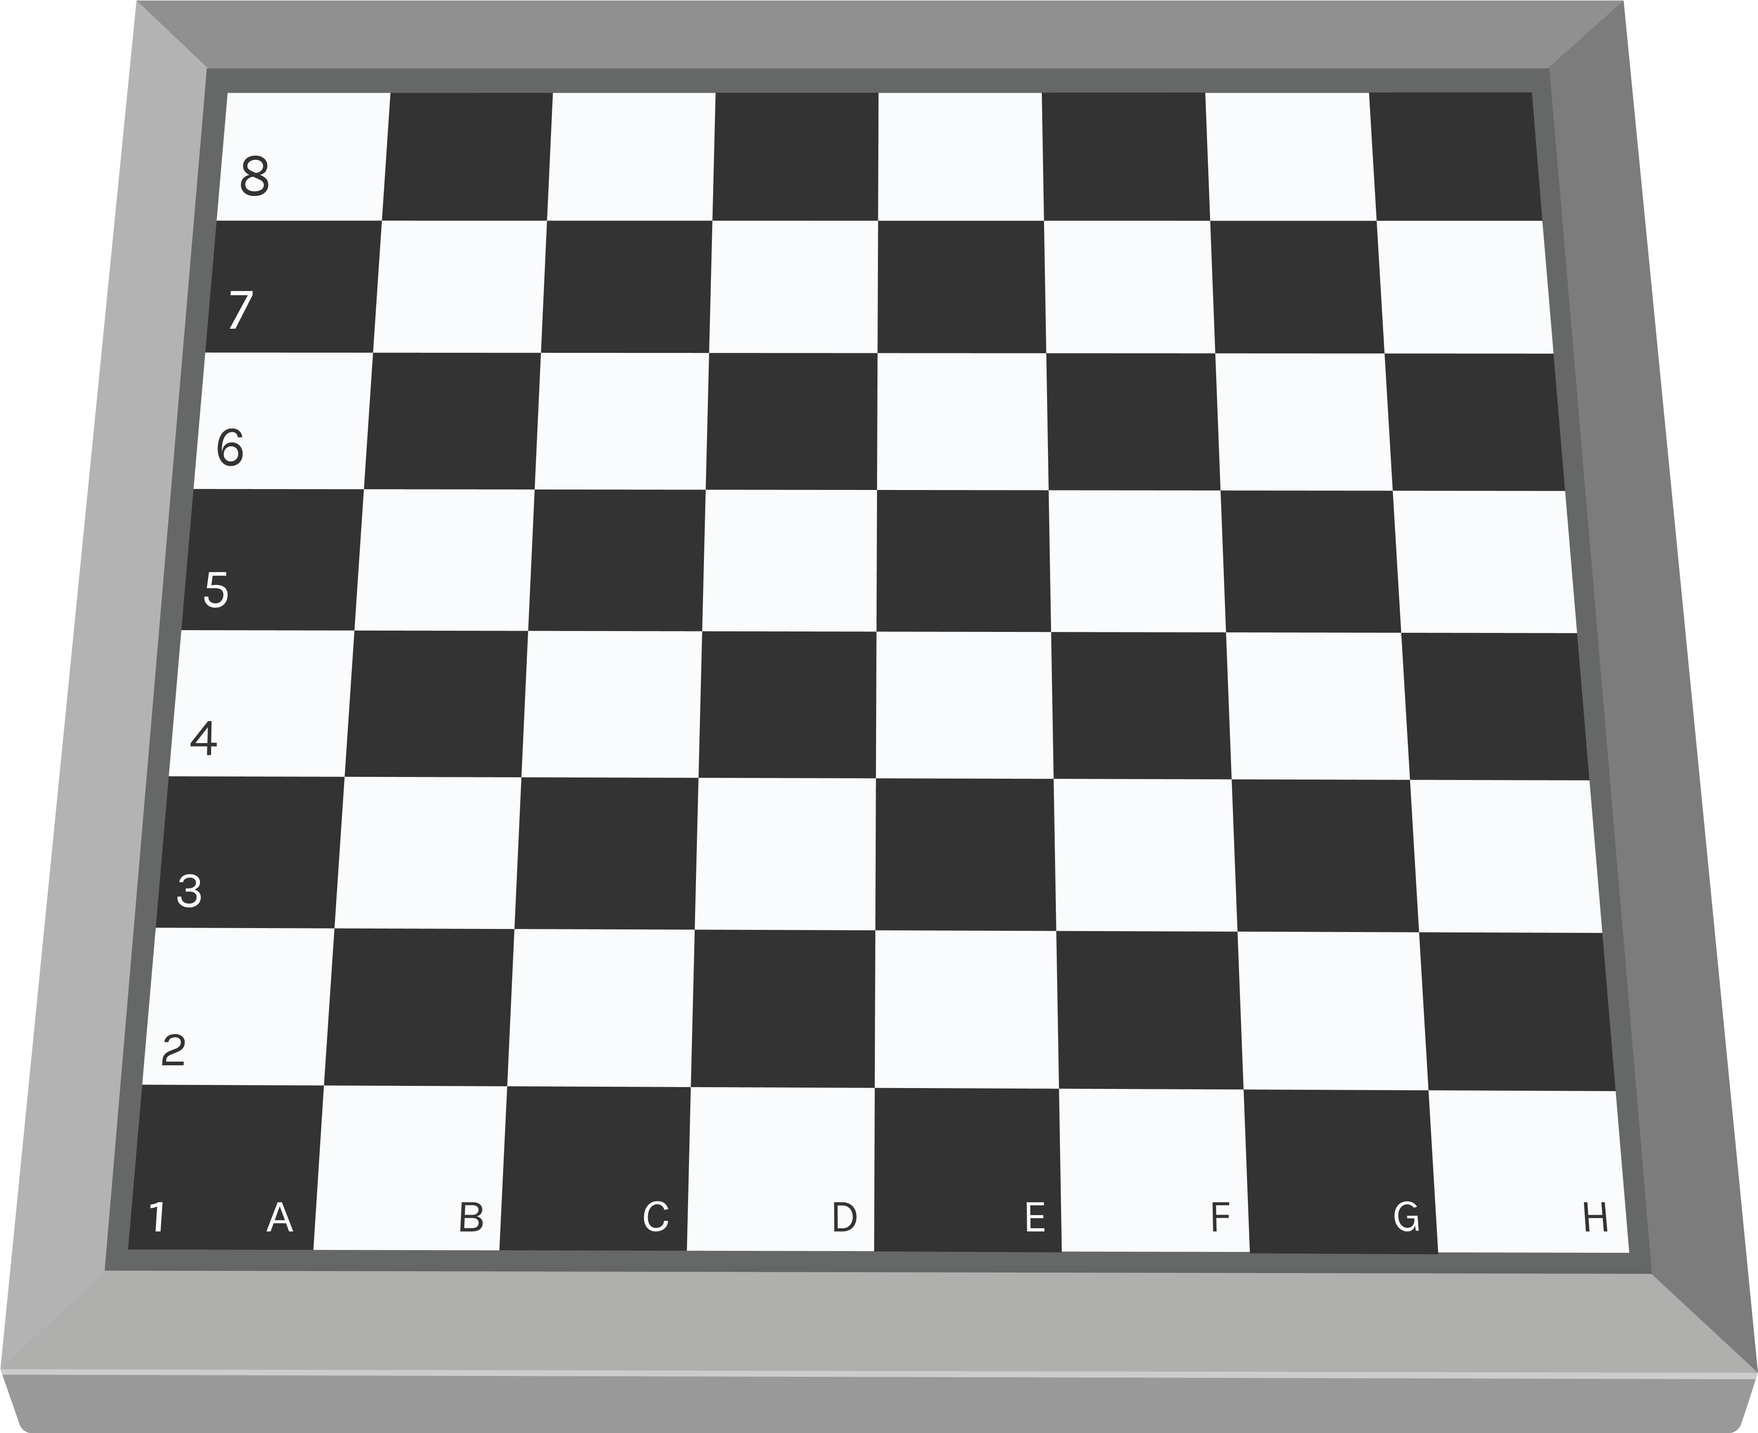
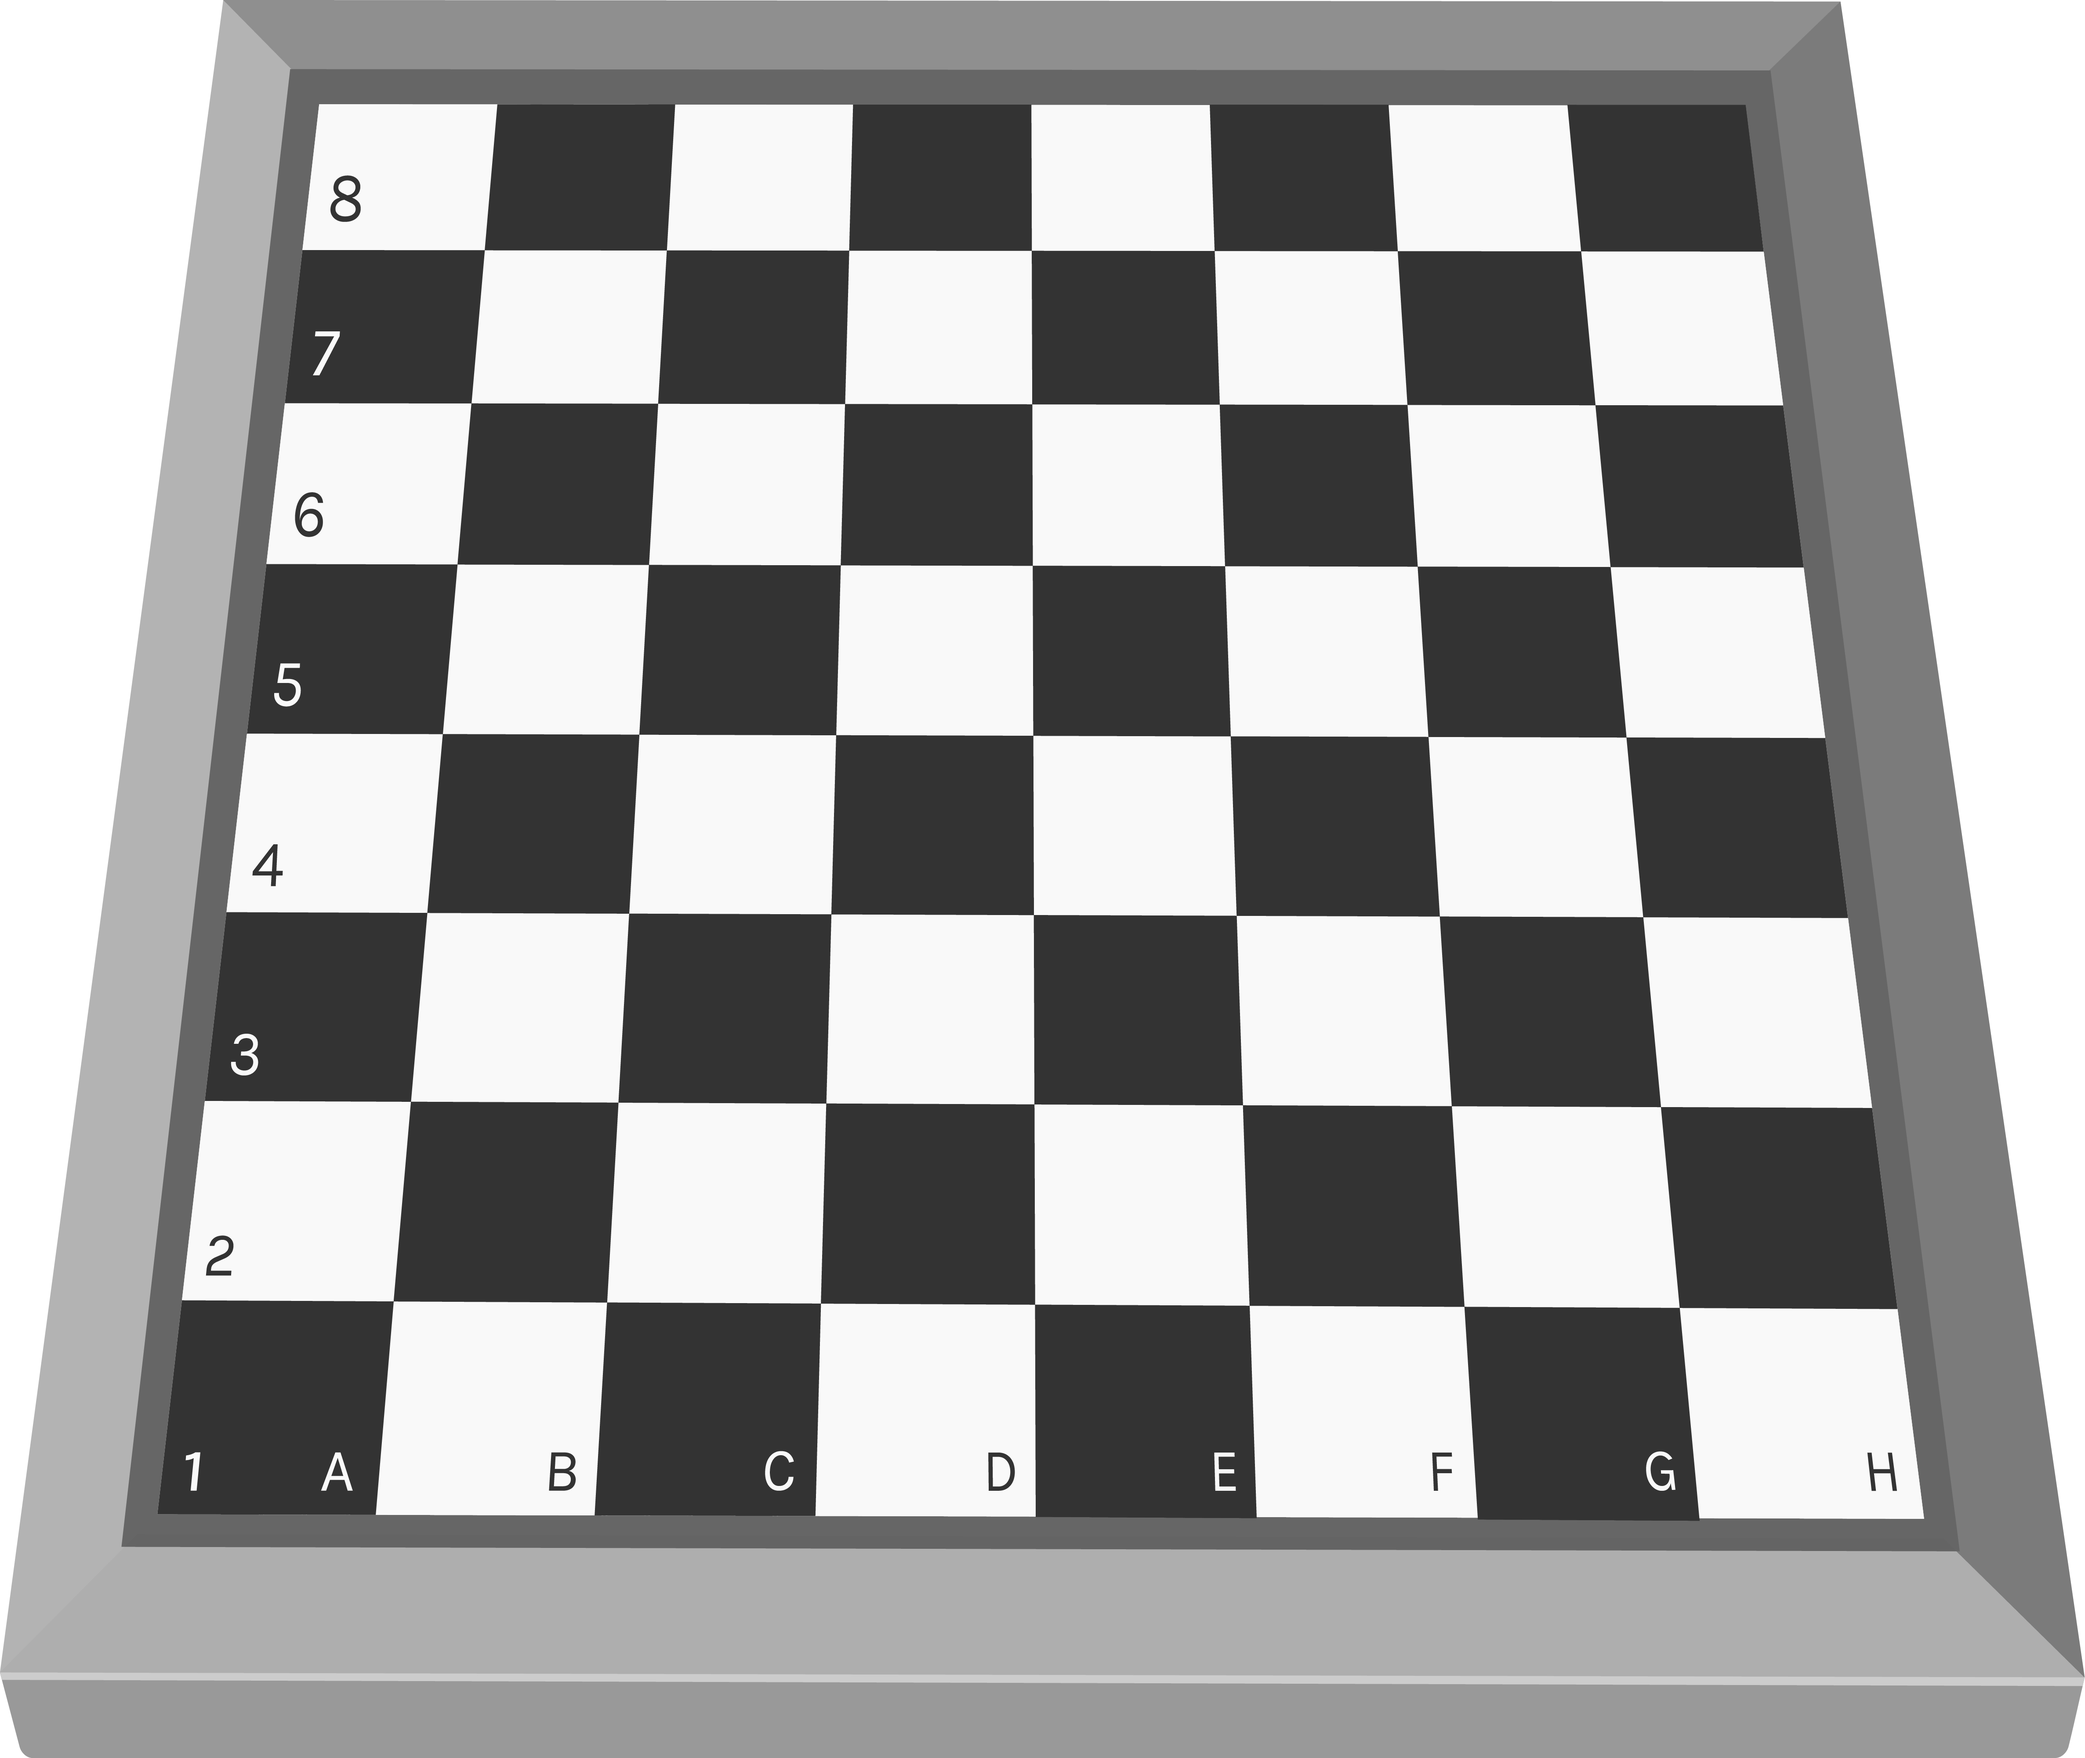
percobaan habi

Changed region(s): [[0.0, 0.0, 0.9998, 0.8982], [0.0, 0.9292, 1.0, 0.9601]]

diff --git a/components/3d-board/3DBoardWoodNew.tsx b/components/3d-board/3DBoardWoodNew.tsx
@@ -5,6 +5,7 @@ import React, { useEffect, useState } from "react";
 import { Chessboard } from "react-chessboard";
 import { useMemo } from "react";
 import { Square } from "chess.js";
+import Image from "next/image";
 
 interface BoardWoodBoardProps {
   size: number | any;
@@ -19,9 +20,7 @@ const BoardWood: React.FC<BoardWoodBoardProps> = ({
 }) => {
   // Board size configuration
   const [boardSize, setBoardSize] = useState<number | any>(700); // Default size
-  useEffect(() => {
-    // handleResize();
-  }, [window?.innerWidth]);
+  
   useEffect(() => {
     if (size) {
       setBoardSize(size);
@@ -35,10 +34,10 @@ const BoardWood: React.FC<BoardWoodBoardProps> = ({
     const isPortrait = height > width;
     const minPadding = 0;
     // const maxSize = window.innerWidth > 1300 ? window.innerWidth / 5 : 400;
-    const maxSize =
-      window?.innerWidth < 1440
-        ? window?.innerWidth / 2.5
-        : window?.innerWidth / 4.2;
+    const maxSize = window?.innerWidth / 3;
+    // window?.innerWidth < 1440
+    // ? window?.innerWidth / 2.5
+    // : window?.innerWidth / 4;
     console.log("Resizing board...", window?.innerWidth, isPortrait);
 
     if (isPortrait) {
@@ -142,94 +141,46 @@ const BoardWood: React.FC<BoardWoodBoardProps> = ({
     });
     return pieceComponents;
   }, []);
-  // Frame dimensions
-  const framePadding = 20;
-  const frameBottom = 110;
+  // Frame dimensions 
 
   return (
-    <div
-      className="relative mx-auto"
-      style={{
-        width: `${boardSize + framePadding * 2}px`,
-        height: `${boardSize + framePadding}px`,
-        // height: `${boardSize + framePadding + frameBottom}px`,
-      }}
-    >
-      <div
+    <div className="relative w-[390px] h-[390px] sm:w-[500px] sm:h-[500px] p-6 flex items-center justify-center">
+      <Image
+        src="/3d-wood-pieces/habi.png"
+        alt="Chess board frame"
+        width={1000}
+        height={1000}
         style={{
-          position: "absolute",
-          top: `${framePadding}px`,
-          left: `${framePadding}px`,
-          width: `${boardSize}px`,
-          height: `${boardSize}px`,
-          zIndex: 5,
+          width: "100%",
+          height: "100%",
+          objectFit: "contain", // Changed from "cover" to maintain aspect ratio
+          padding: "0",
+          margin: "0",
         }}
+      />
+      <div
+        className={`absolute left-[69px] sm:left-[81px] top-[47px] sm:top-[53px]`}
       >
         <Chessboard
           arePiecesDraggable={false}
-          boardWidth={boardSize}
+          boardWidth={window.innerWidth > 425 ? 334 : 250}
           id="Styled3DBoard"
-          position={position}
+          // position={position}
           customBoardStyle={{
-            // width: boardSize + 24,
-            // height: boardSize + 32,
             transform: "rotateX(27.5deg)",
-            // transformOrigin: "center",
-            // border: "16px solid #b8836f",
-            // borderStyle: "outset",
-            // borderRightColor: " #b27c67",
-            // borderRadius: "4px",
-            // boxShadow: "rgba(0, 0, 0, 0.5) 2px 4px 24px 8px",
-            // borderRightWidth: "2px",
-            // borderLeftWidth: "2px",
-            // borderTopWidth: "0px",
-            // borderBottomWidth: "18px",
-            // borderTopLeftRadius: "8px",
-            // borderTopRightRadius: "8px",
-            // padding: "8px 8px 12px",
-            // background: "#e0c094",
-            // backgroundImage: 'url("wood-pattern.png")',
-            // backgroundSize: "contain",
+            transformOrigin: "center",
+            // background:"black"
           }}
           customPieces={threeDPieces}
           customLightSquareStyle={{
-            backgroundColor: "#e0c09480",
-            // backgroundImage: 'url("wood-pattern.png")',
-            // backgroundSize: "cover",
+            // backgroundColor: "transparent",
+            backgroundColor: "#ff000080",
           }}
           customDarkSquareStyle={{
-            backgroundColor: "#86574580",
-            // backgroundImage: 'url("wood-pattern.png")',
-            // backgroundSize: "cover",
+            // backgroundColor: "transparent",
+            backgroundColor: "#0000ff80",
           }}
           animationDuration={100}
-        />
-      </div>
-      
-      <div
-        style={{
-          position: "absolute",
-          top: "60%",
-          left: "50%",
-          transform:"translate(-50%, -50%)",
-          width: boardSize + 160,
-          height: boardSize + 160,
-          // width: "39.188rem",
-          // height: "27.063rem",
-          pointerEvents: "none", // Allow clicking through to the board
-        }}
-      >
-        <img
-          src="/3d-wood-pieces/habi.png"
-          alt="Chess board frame"
-          style={{
-            // transform: "rotateX(27.5deg) rotateY(0deg) scale(1)",
-            width: "100%",
-            height: "100%",
-            objectFit: "contain", // Changed from "cover" to maintain aspect ratio
-            padding: "0",
-            margin: "0",
-          }}
         />
       </div>
     </div>
@@ -237,4 +188,3 @@ const BoardWood: React.FC<BoardWoodBoardProps> = ({
 };
 
 export default BoardWood;
- 
